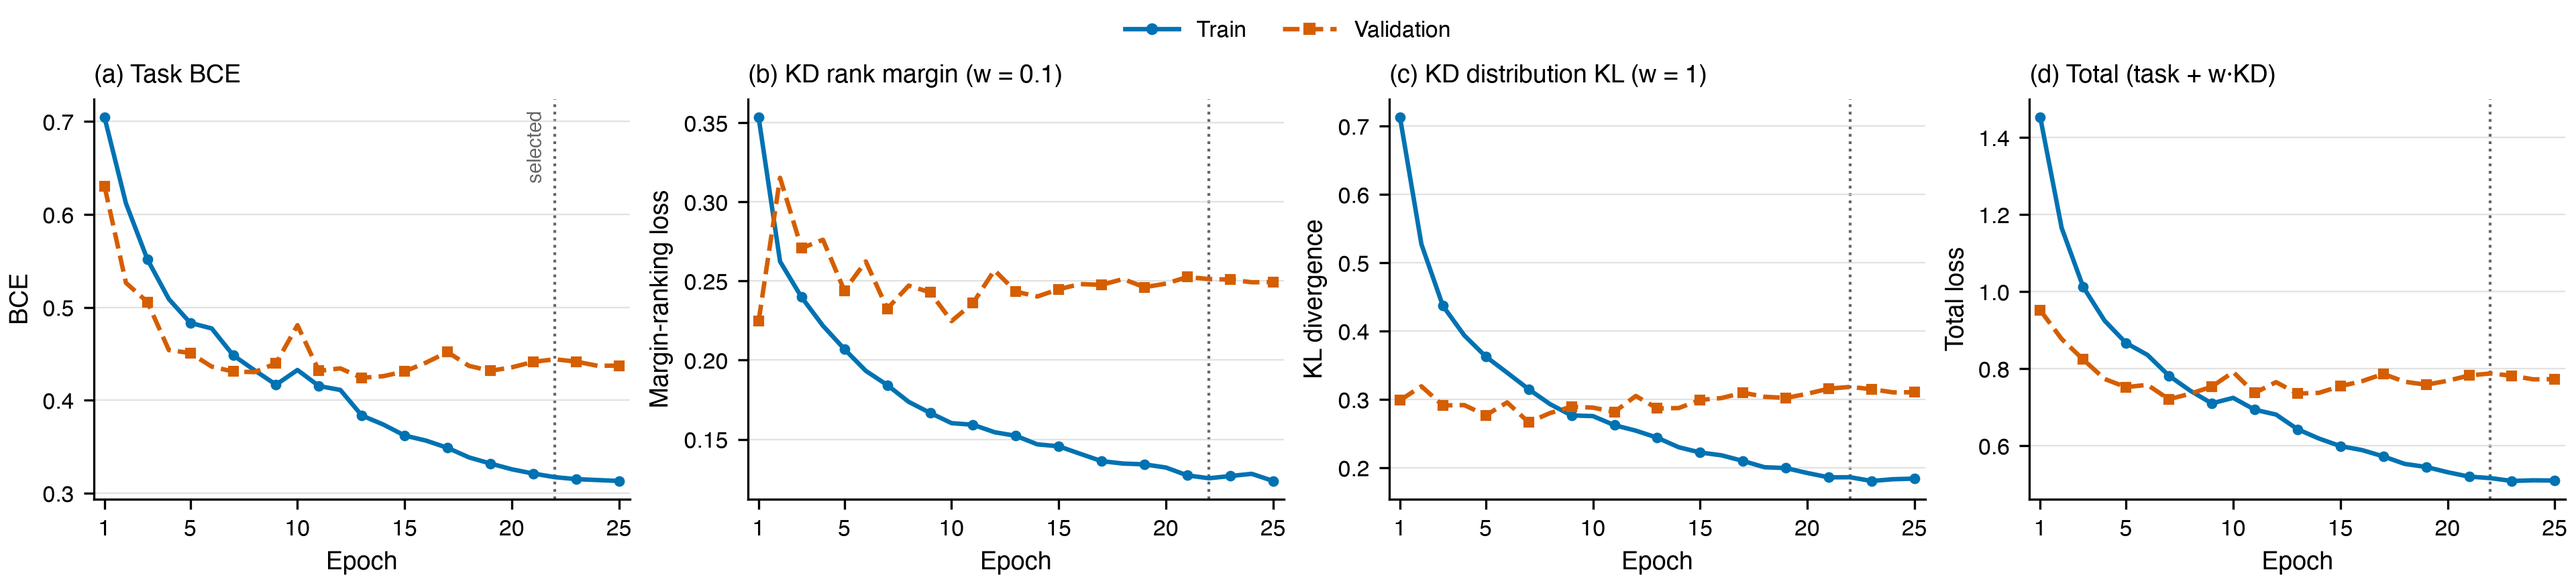
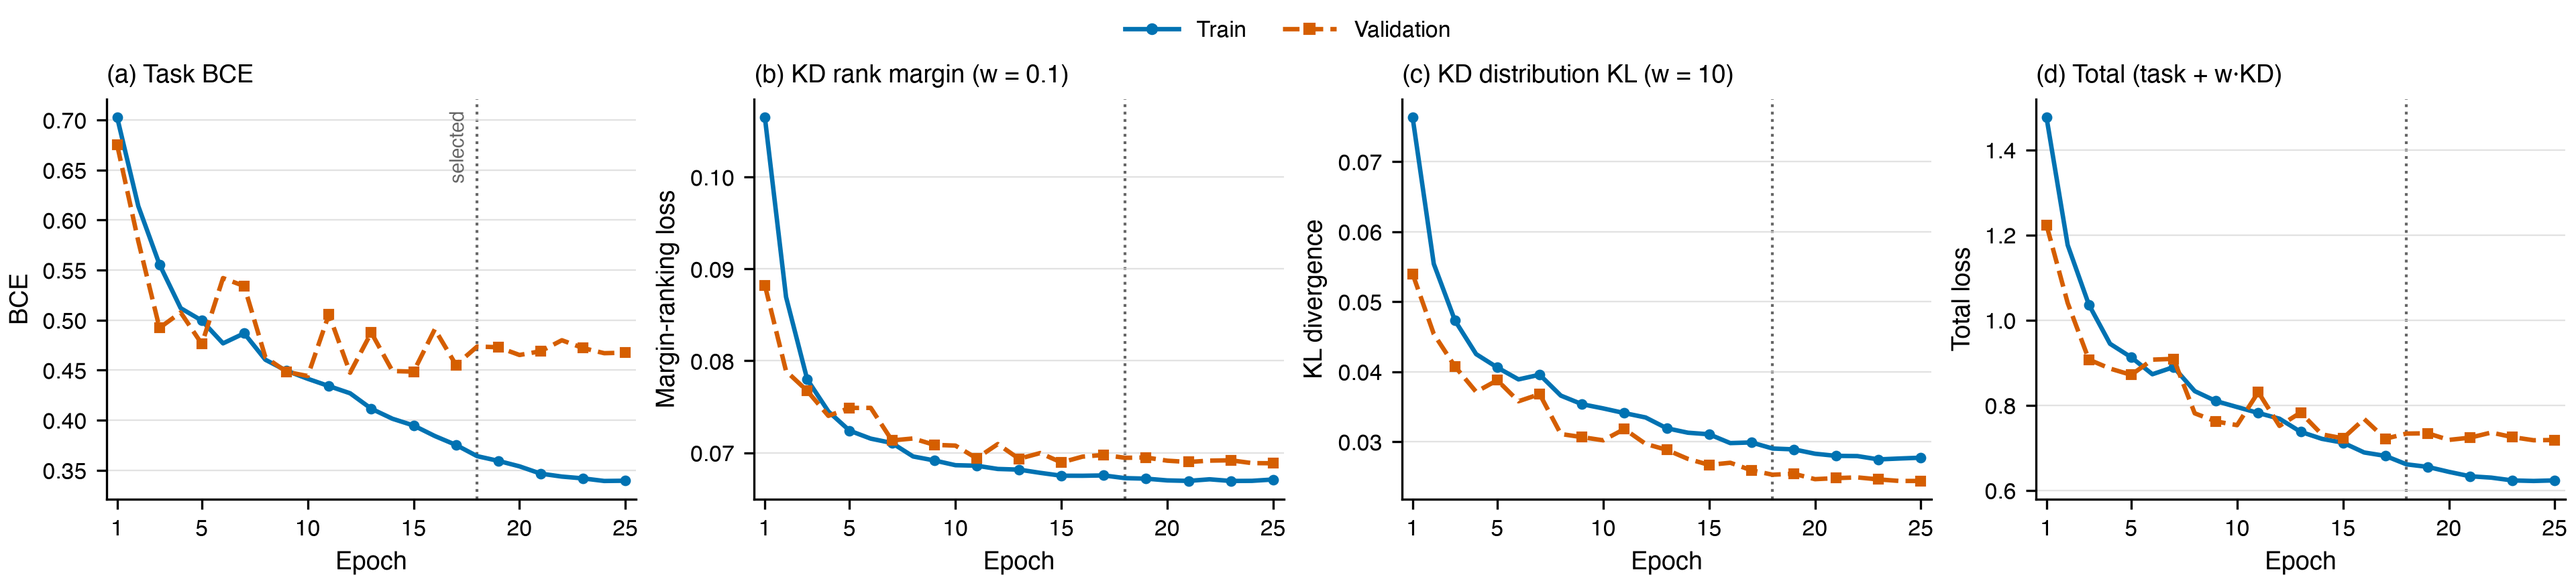
feat(kd_rank): update KD2 Trial 8 documentation and learning curves; adjust selected epoch and weights

diff --git a/docs/results/kd2_kd_rank/plot_learning_curves.py b/docs/results/kd2_kd_rank/plot_learning_curves.py
@@ -1,4 +1,4 @@
-"""Publication learning curves for KD2 (kd_rank), run kd_rank_wr0p1_wd1.
+"""Publication learning curves for provisional strict-LLP KD2 Trial 8.
 
 Reads learning_curves.csv next to this file and renders the loss and
 validation-topology PNGs next to it. Raw (unweighted) loss terms are
@@ -20,9 +20,9 @@ from matplotlib.axes import Axes
 from matplotlib.lines import Line2D
 
 ARM = "KD2 (kd_rank)"
-RUN = "kd_rank_wr0p1_wd1"
-KD_WEIGHTS = {"w_rank": 0.1, "w_dist": 1.0}
-SELECTED_EPOCH = 22
+RUN = "strict_trial_008_h2ns3"
+KD_WEIGHTS = {"w_rank": 0.1, "w_dist": 10.0}
+SELECTED_EPOCH = 18
 # Panels: (caption, ylabel, train_column, val_column).
 PANELS: tuple[tuple[str, str, str, str], ...] = (
     ("(a) Task BCE", "BCE", "train_loss", "val_task_loss"),
@@ -30,9 +30,9 @@ PANELS: tuple[tuple[str, str, str, str], ...] = (
         "(b) KD rank margin (w = 0.1)",
         "Margin-ranking loss",
         "kd_rank_loss",
-        "val_kd_rank_block_loss",
+        "val_kd_rank_loss",
     ),
-    ("(c) KD distribution KL (w = 1)", "KL divergence", "kd_dist_loss", "val_kd_dist_block_loss"),
+    ("(c) KD distribution KL (w = 10)", "KL divergence", "kd_dist_loss", "val_kd_dist_loss"),
     ("(d) Total (task + w·KD)", "Total loss", "train_total", "val_total"),
 )
 
@@ -67,10 +67,24 @@ def load_curves() -> dict[str, list[float]]:
         + [key for panel in PANELS for key in panel[2:]]
         + [panel[2] for panel in TOPOLOGY_PANELS]
     )
-    curves = {name: [float(row[name]) for row in rows] for name in columns}
+    topology_columns = {panel[2] for panel in TOPOLOGY_PANELS}
+    curves = {
+        name: [float(row[name]) if row[name] else math.nan for row in rows] for name in columns
+    }
     for name, values in curves.items():
-        if not all(math.isfinite(value) for value in values):
+        if name not in topology_columns and not all(math.isfinite(value) for value in values):
             raise ValueError(f"non-finite value in column {name!r}")
+    expected_topology_epochs = set(range(2, 26, 2)) | {25}
+    for name in topology_columns:
+        observed = {
+            int(epoch)
+            for epoch, value in zip(curves["epoch"], curves[name], strict=True)
+            if math.isfinite(value)
+        }
+        if observed != expected_topology_epochs:
+            raise ValueError(
+                f"{name!r} must contain cadence-2 epochs plus epoch 25, got {sorted(observed)}"
+            )
     return curves
 
 
@@ -169,9 +183,12 @@ def plot_topology_panel(
     label_selected: bool,
 ) -> None:
     """Draw one validation-topology metric across epochs."""
+    finite_points = [
+        (epoch, value) for epoch, value in zip(epochs, values, strict=True) if math.isfinite(value)
+    ]
     ax.plot(
-        epochs,
-        values,
+        [point[0] for point in finite_points],
+        [point[1] for point in finite_points],
         color=VAL_COLOR,
         linewidth=1.6,
         marker="s",

diff --git a/docs/03-experiments.md b/docs/03-experiments.md
@@ -87,14 +87,14 @@ w_dist × context bank (hops × negative-sampling rate) × margin. The best conf
 
 ## 2. Main results — edge and assembled topology
 
-Table 2 (pairwise, best HPO per arm) and Table 3 (the five topology numbers at each arm's single frozen V_val-selected threshold) are reported together.
+Table 2 (pairwise, current selected result per arm) and Table 3 (the five topology numbers at each arm's single frozen V_val-selected threshold) are reported together; KD2 Trial 8 is provisional while its HPO remains unfinished.
 
 | Arm | AUROC | AUPRC | Accuracy | F1 | MCC |
 |---|---:|---:|---:|---:|---:|
 | Full-Ego Oracle | 0.9519 | 0.9566 | 0.8711 | 0.8776 | 0.7464 |
 | Pairwise baseline | 0.7067 | 0.7316 | 0.6261 | 0.4769 | 0.3072 |
 | kd_logit (`kd_logit_w100`) | 0.7195 | 0.7417 | 0.6459 | 0.6670 | 0.2941 |
-| kd_ranking | — | — | — | — | — |
+| kd_ranking (strict Trial 8; provisional) | 0.7183 | 0.7457 | 0.6477 | 0.6656 | 0.2970 |
 | kd_representation (`kd_rep_w0p1`) | 0.7108 | 0.7402 | 0.6234 | 0.6760 | 0.2610 |
 | kd_gram (`kd_gram_w1`) | 0.7169 | 0.7428 | 0.6426 | 0.6713 | 0.2897 |
 | kd_struct (`w_struct=1`) | 0.7241 | 0.7489 | 0.6513 | 0.6820 | 0.3084 |
@@ -104,7 +104,7 @@ Table 2 (pairwise, best HPO per arm) and Table 3 (the five topology numbers at e
 | Full-Ego Oracle | 0.6429 | 0.9955 | 2.667 | 1.875 | 5.207 |
 | Pairwise baseline | 0.3672 | 0.3221 | 21.03 | 18.49 | 28.39 |
 | kd_logit (`kd_logit_w100`) | 0.4048 | 0.4248 | 15.63 | 13.07 | 22.06 |
-| kd_ranking | — | — | — | — | — |
+| kd_ranking (strict Trial 8; provisional) | 0.4143 | 0.4399 | 14.56 | 12.41 | 21.03 |
 | kd_representation (`kd_rep_w0p1`) | 0.4121 | 0.5626 | 8.725 | 7.552 | 13.15 |
 | kd_gram (`kd_gram_w1`) | 0.3959 | 0.4989 | 10.16 | 8.851 | 15.43 |
 | kd_struct (`w_struct=1`) | 0.4072 | 0.5025 | 9.655 | 8.335 | 14.79 |
@@ -113,7 +113,7 @@ Table 2 (pairwise, best HPO per arm) and Table 3 (the five topology numbers at e
 
 ## 4. Analysis
 
-Learning curves are the seed-0 HPO-winner `V_val` surfaces; the dotted marker is the selected epoch. Every arm answers one question: did the KD signal move anything that $(x_u,x_v)$ alone does not already reveal?
+Learning curves are seed-0 `V_val` selection surfaces (final HPO winners except provisional KD2 Trial 8); the dotted marker is the selected epoch. Every arm asks whether KD moves anything that $(x_u,x_v)$ alone does not reveal.
 
 ### 4.1 KD1: soft logits (`kd_logit`, selected epoch 25)
 ![KD1 loss curves](results/kd1_kd_logit/learning_curves.png) ![KD1 V_val topology curves](results/kd1_kd_logit/validation_topology_curves.png)
@@ -122,9 +122,9 @@ Learning curves are the seed-0 HPO-winner `V_val` surfaces; the dotted marker is
 - Reading: GLNN's own low-$I(X;Y\mid E)$ regime. Soft labels transfer only what $(x_u,x_v)$ already reveals.
 - Held-out: AUPRC +0.010 and GS +0.02 over control; RD and all three MMD ratios worse.
 
-### 4.2 KD2: ranking over context banks (`kd_rank`, selected epoch 22)
+### 4.2 KD2: ranking over context banks (`kd_rank`, selected epoch 18)
 ![KD2 loss curves](results/kd2_kd_rank/learning_curves.png) ![KD2 V_val topology curves](results/kd2_kd_rank/validation_topology_curves.png)
-- Retired incidental-batch objective, not strict LLP; the strict-LLP study (§1.5) supersedes it and is unaudited. No reading is drawn from this surface.
+- Current provisional strict-LLP Trial 8 (`w_rank=0.1`, `w_dist=10`, `h2ns3`, margin 0.1): held-out AUPRC/AUROC 0.7457/0.7183 and GS/RD 0.4143/0.4399, but MMD 14.56/12.41/21.03. HPO is unfinished, so this early test is diagnostic unless Trial 8 later wins by V_val alone and must not influence selection.
 
 ### 4.3 KD3: relational Gram (`kd_gram`, selected epoch 10)
 ![KD3 loss curves](results/kd3_kd_gram/learning_curves.png) ![KD3 V_val topology curves](results/kd3_kd_gram/validation_topology_curves.png)

diff --git a/docs/results/kd2_kd_rank/README.md b/docs/results/kd2_kd_rank/README.md
@@ -1,14 +1,12 @@
-# KD2 (`kd_rank`): 4-H20 HPO winner curves
+# KD2 (`kd_rank`): provisional strict-LLP Trial 8 curves
 
-**Status (verified 2026-08-31):** this directory records the 4-H20 HPO winner
-`kd_rank_wr0p1_wd1`, not the older published 2-H20 `w_rank=1, w_dist=1` KD2 run. The winner completed
-25 epochs with `w_rank=0.1` and `w_dist=1`; the selected-epoch marker is epoch 22. The run used
-`--skip-test`, so nothing in this directory is a held-out test result.
+**Status (verified 2026-09-03):** this directory records strict-LLP HPO Trial 8. The 16-trial sweep is
+unfinished; Trial 8 is diagnostic unless it later wins by V_val alone.
 
 ## Objective
 
-These curves are the retired incidental-batch KD2 winner, not evidence for the new strict-LLP KD2. The new arm uses a separate context bank with K=12 per anchor: 3 independent two-step walks retain all
-6 visited nodes, plus 6 global random nodes sampled with replacement. On context probabilities,
+Trial 8 uses the `h2ns3` context bank with at most K=24 partners per anchor: 3 independent two-step
+walks retain up to 6 visits, plus 18 global random nodes sampled with replacement. On probabilities,
 `L_rank` uses the LLP delta=0.1 tie band and hinge margin; `L_dist` is per-anchor
 `KL(softmax(t_prob)||softmax(s_prob))` at fixed temperature 1. Extra context forwards are KD-only and
 separate from the row target bank; deployed task input remains exactly the endpoints `(x_u,x_v)`.
@@ -23,19 +21,21 @@ Accepted deviations from the LLP reference:
 
 ![KD2 train and validation learning curves](learning_curves.png)
 ![KD2 validation topology curves](validation_topology_curves.png)
-The first figure plots train/validation losses; the second plots BFS-macro GS/RD and all three MMD
-ratios on V_val, with Oracle V_val references. The dotted line marks selected epoch 22. [CSV](learning_curves.csv) and the
+The first figure plots train/validation losses; the second plots cadence-2 BFS-macro GS/RD and all
+three MMD ratios on V_val, with Oracle references. The dotted line marks selected epoch 18. [CSV](learning_curves.csv) and the
 [plot script](plot_learning_curves.py) contain the exact values and reproduce both PNGs.
 
 ## Campaign provenance
 
 | field | value |
 |---|---|
-| campaign/run | `outputs/b1_row_kd_hpo/kd_rank_wr0p1_wd1` |
-| runtime | 4 H20 ranks; bf16; seed 0; 25 epochs; `--skip-test` |
-| KD weights | `w_rank=0.1`, `w_dist=1`; all other KD weights `0` |
-| selected epoch | 22 |
-| V_val surface | AUPRC 0.9205; GS 0.5263; RD 1.0490; degree/clustering/spectral MMD 13.95/2.50/10.09 |
+| campaign/run | `outputs/b1_kd_rank_strict_hpo/trial_008` |
+| runtime | 4 H20 training ranks; bf16; seed 0; 25 epochs; direct 2-H20 held-out test |
+| KD configuration | `w_rank=0.1`, `w_dist=10`, `h2ns3`, margin `0.1` |
+| selected epoch | 18 |
+| V_val surface | AUPRC 0.9205; GS 0.5414; RD 1.0133; MMD 14.90/2.50/11.43 |
+| held-out edge | AUROC/AUPRC 0.7183/0.7457; Accuracy/F1/MCC 0.6477/0.6656/0.2970 |
+| held-out topology | GS/RD 0.4143/0.4399; MMD 14.56/12.41/21.03 |
 
-The campaign-wide source is [the HPO grid report](../kd_hpo_grid/README.md). It explicitly separates
-these 4-rank V_val selection surfaces from the older 2-rank published KD1–KD4 reports.
+The held-out result must not influence selection; the final KD2 row is formal only if Trial 8 later
+wins the unfinished HPO under the frozen V_val-only rule.
